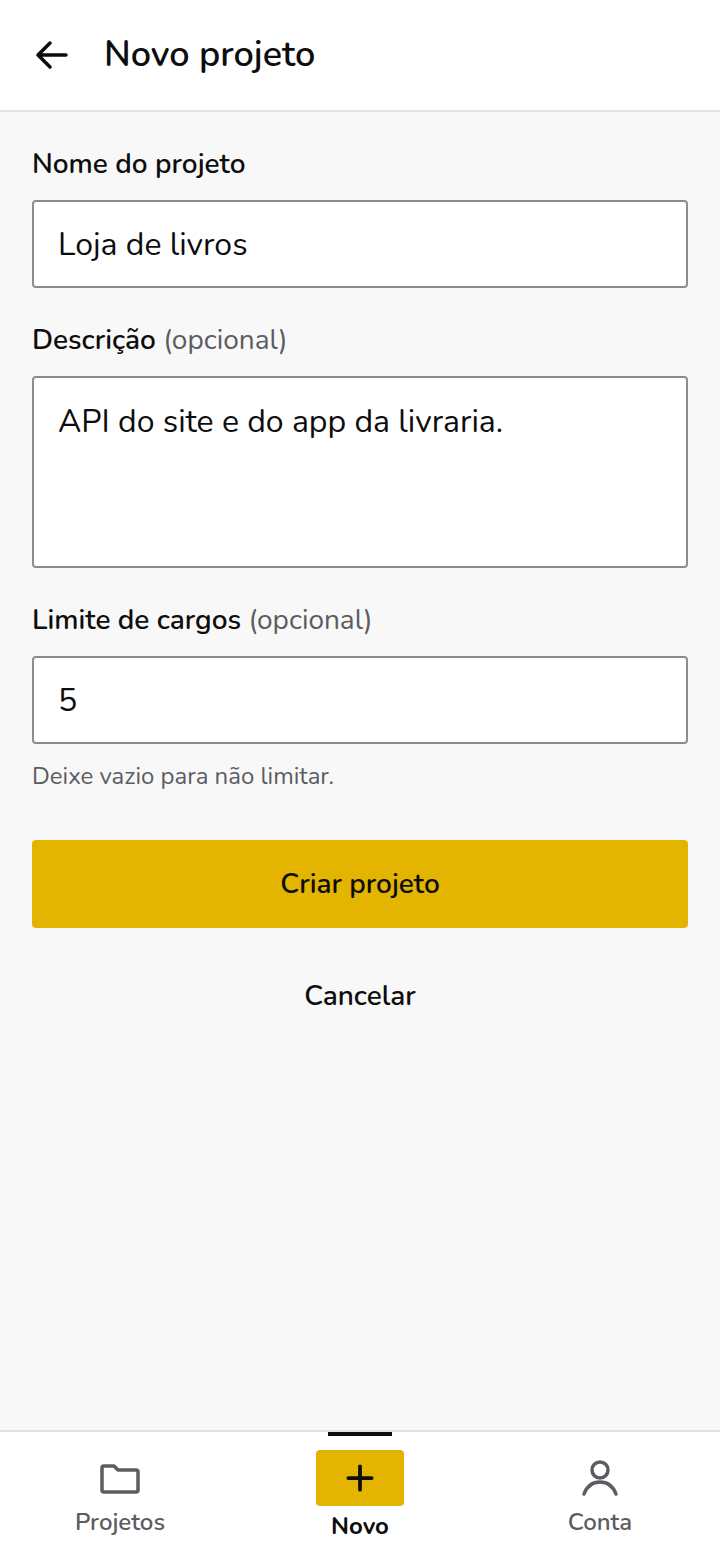
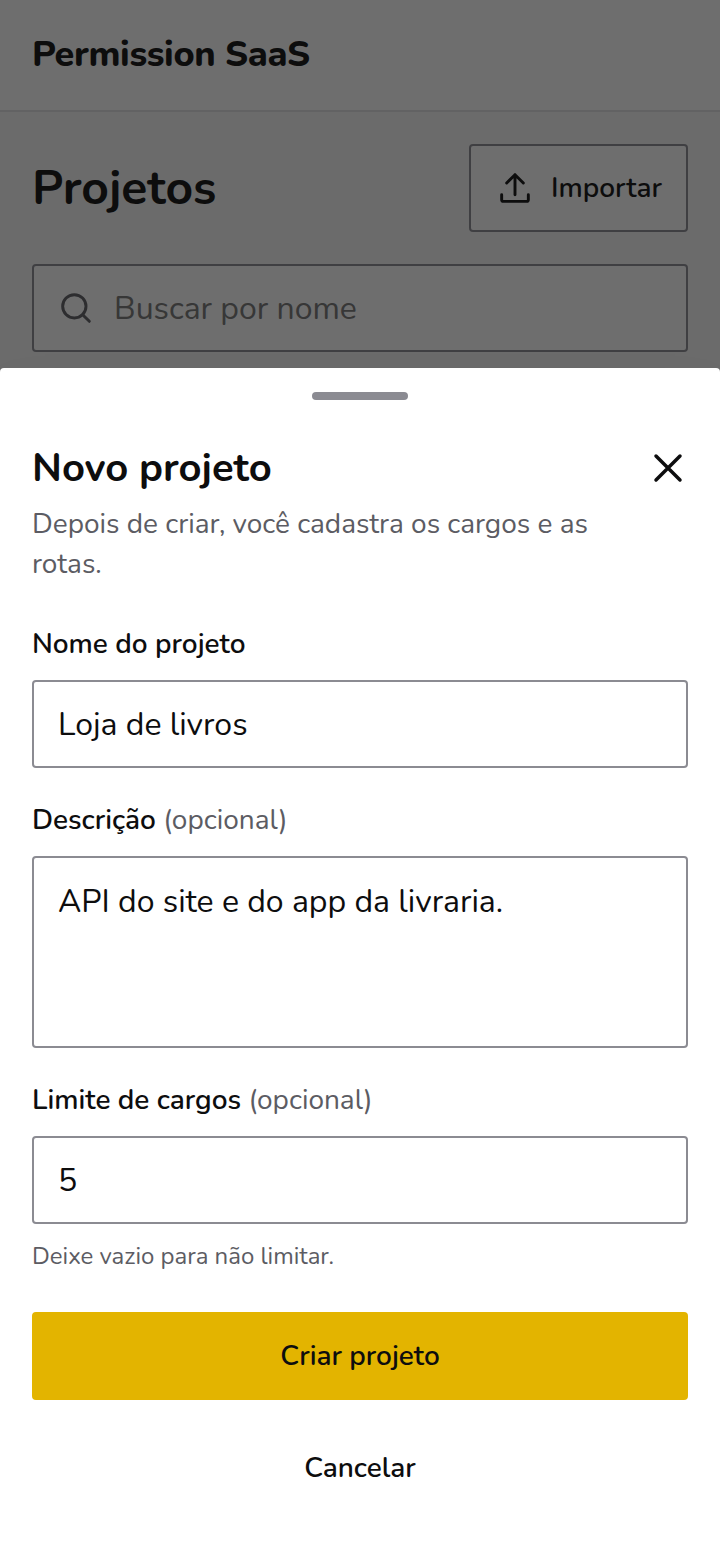
docs: move project create and edit to sheets in the mockup
- Create and edit open in a sheet over the list or detail instead of
  their own page: a Drawer from the bottom on the phone (drag down to
  close) and a Sheet from the right on desktop
- Add the desktop edit sheet screen; refresh the PNG exports and shift
  the desktop delete screens to 34-36
- Record the code adjustment for block 2 (child routes keep
  /projects/new and /projects/:id/edit) and the Vaul dependency in
  ADR-017

diff --git a/docs/desenvolvimento_full_stack_com_react_e_spring_boot/PLAN.md b/docs/desenvolvimento_full_stack_com_react_e_spring_boot/PLAN.md
@@ -58,7 +58,7 @@ O que esta disciplina acrescenta ao sistema:
 | A rubrica cobra | O enunciado (etapas) | Como fica |
 |---|---|---|
 | Exportação de dados protegida por JWT (itens 9–12) | nenhuma etapa fala em exportação | export e import do projeto completo em JSON (bloco 5) |
-| Mockup "detalhado" (item 4) | a Etapa 0 pede um mockup | 30 telas (celular em 360 px e desktop), com estados e navegação clicável, feitas pela IA com a liberação do professor (bloco 0) |
+| Mockup "detalhado" (item 4) | a Etapa 0 pede um mockup | 36 telas (26 no celular, em 360 px, e 10 no desktop), com estados e navegação clicável, feitas pela IA com a liberação do professor (bloco 0) |
 | "Integração contínua" (item 1) | — | GitHub Actions em cada repositório (bloco 1) |
 | "Serviço RESTful fornecido" (item 2) | a Etapa 6 permite uma API própria | a própria API; o relatório explica a escolha |
 | Testes "abrangentes" do update e do delete (item 7) e da segurança (itens 11 e 16) | a Etapa 3 pede testar e validar | unidade, MockMvc e Testcontainers (blocos 2, 3 e 5) |
@@ -139,6 +139,7 @@ bloco 4 para login e cadastro).
 | **O erro do nome só aparece quando o texto digitado deixa de bater com o começo do nome.** "Loja vir" não acusa nada, e "Loja V" acusa. Hoje o erro aparece a cada letra que ainda não completa o nome | 17/11 | `ProjectDetail`: hoje `hasError = confirmProjectName !== "" && !isProjectNameConfirmed`; passa a ser `confirmProjectName !== "" && !project.name.startsWith(confirmProjectName)`. O botão continua dependendo do nome exato (`isProjectNameConfirmed`) |
 | **O cabeçalho atual quebra em 360 px:** o nome do usuário e o "Sair" saem da tela, e a busca não ocupa a largura (print `entrega/prints/04-front-projetos-celular.png`). Resolve com a barra inferior e o cabeçalho fino do mockup | 17/11 | `AppLayout` e a lista de projetos |
 | **Textos na voz da marca:** "Ops!!" sai, "Deletando..." vira "Excluindo...", "Novo Projeto" vira "Novo projeto"... A tabela completa está no branding, em "Voz e tom" | 17/11 | as telas que forem refeitas |
+| **Criar e editar projeto num sheet, e não numa página.** No celular, o sheet sobe de baixo; a partir do `md`, entra pela direita, com 480 px. A lista ou o detalhe continua visível atrás, escurecido. O sheet fecha pelo X, pelo Cancelar, pela tecla Esc ou com um toque fora; no celular, também arrastando para baixo pela alça do topo (pedido em 18/11). As rotas continuam, como rotas filhas: `/projects/new` abre o sheet sobre a lista, e `/projects/:id/edit` abre o sheet sobre o detalhe. Assim, o voltar do navegador fecha o sheet, e o link continua abrindo direto nele. Ao criar, o sheet fecha e abre o detalhe do projeto novo, com o aviso de sucesso; ao salvar, fecha e fica no detalhe. O "Novo" da barra de baixo e do cabeçalho do desktop deixa de levar a uma página e passa a abrir o sheet. A exclusão continua num diálogo, porque confirma uma decisão em vez de preencher um formulário | 18/11 | `router.tsx` (as duas rotas viram filhas), `ProjectListPage` e `ProjectDetailPage` (ganham o `<Outlet />`); o `ProjectFormPage` sai e dá lugar a um componente que escolhe pela largura: o `Drawer` do shadcn/ui (feito sobre o Vaul, que dá o arrastar) abaixo do `md` e o `Sheet` com `side="right"` a partir dele, com o mesmo formulário dentro (bloco 2; ADR-017) |
 
 ---
 
@@ -211,6 +212,8 @@ O JWT, o logout seguro, o export protegido e os testes de segurança **não são
   - [x] as 35 telas em PNG em `entrega/mockup/` (celular em 2x, desktop em 1x)
   - [x] ambiente conferido, com 4 prints em `entrega/prints/`: a API respondendo (`/actuator/health`), a lista de projetos no front, a mesma chamada pelo proxy do Vite (`/api/projects`) e o front atual em 360 px. Os prints usaram um PostgreSQL temporário com dados de demonstração, apagado depois; o banco local do Jairo não foi tocado
   - [x] canvas aberto para quem tiver o link (17/11); é o link do PDF e o que vai para o professor: <https://claude.ai/artifact/5CUHCznKRK51vLerPZfoVq#page-01487ea111e7>
+- [x] Criar e editar projeto em sheet no mockup (18/11): o sheet de editar no desktop é tela nova (agora 26 no
+      celular e 10 no desktop), e os PNGs dessas telas foram refeitos (36 em `entrega/mockup/`)
 - [ ] **Bloco 1:** diagnóstico; Dockerfile do front; portas de desenvolvimento separadas; CI; auditoria
       de código (IA) e escolha dos achados
 - [ ] **Bloco 2:** shadcn/ui e Sonner; Axios; React Hook Form + Zod; cargos e rotas no detalhe; validações; testes do CRUD
@@ -241,6 +244,7 @@ Ferramenta: **Claude Code**, da Anthropic.
 | 17/11/2026 | Bloco 0 (mockup) | Com a liberação do professor para usar IA no mockup, e a meu pedido, desenhou o mockup num canvas de design do Claude: 30 telas, 24 no celular (360 px) e 6 no desktop (1440 px), com os estados de carregando, vazio, erro e sucesso, e links entre as telas para navegar. Partiu das decisões de tela que tomei no jogo de perguntas e do branding. Propôs como a matriz de concessões fica no celular (um cargo por vez). A revisão das telas é minha |
 | 17/11/2026 | Bloco 0 (fechamento) | A meu pedido, gerou as 35 telas do mockup em PNG num Chrome sem janela e tirou os 4 prints do ambiente com um script que sobe o front, faz o login de demonstração e captura as telas. Para os prints, rodou a API contra um PostgreSQL temporário com dados de demonstração e apagou tudo depois. Apontou que o cabeçalho do front atual quebra em 360 px; o ajuste ficou para o bloco 2 |
 | 17/11/2026 | ADR-017 | A meu pedido, avaliou se valia deixar as bibliotecas do front prontas antes dos blocos e recomendou registrar a decisão agora e instalar cada uma no bloco em que é usada (o Zustand só no bloco 4, para não migrar duas vezes a sessão simulada); escreveu o ADR-017. A escolha das bibliotecas (Sonner, React Hook Form, Zod e o Zustand no lugar do Redux) foi minha |
+| 18/11/2026 | Mockup (sheets) | A meu pedido, trocou as telas de criar e editar projeto por sheets (de baixo no celular e pela direita no desktop), desenhou o sheet de editar no desktop, que não existia, e refez os PNGs dessas telas; depois, a meu pedido, pôs no celular a alça para fechar o sheet arrastando para baixo. Corrigiu dois links do desktop que levavam à tela errada (o Editar do detalhe abria o formulário de criar, e os cards da lista abriam o detalhe do celular) e registrou o ajuste no código. A ideia de usar sheets foi minha |
 
 ---
 

diff --git a/docs/ARCHITECTURE.md b/docs/ARCHITECTURE.md
@@ -807,6 +807,7 @@ relatório listou a troca dessas peças como trabalho futuro. A disciplina Full 
 |---|---|---|
 | componentes escritos à mão com Tailwind | **shadcn/ui**, com as cores e fontes do `docs/branding/tokens.css` e o raio de 2 px | bloco 2 |
 | `NotificationContext` + `Toast` próprios | **Sonner**, pelo componente do shadcn/ui | bloco 2 |
+| formulários de criar e editar em páginas próprias (`ProjectFormPage`) | **Sheet** do shadcn/ui no desktop e **Drawer** (feito sobre o **Vaul**) no celular, que fecha arrastando para baixo; decidido em 18/11, depois do mockup | bloco 2 |
 | `httpClient` sobre o `fetch` | **Axios**, com interceptors (o de renovar o token entra no bloco 4) | bloco 2 |
 | `useForm` próprio e validação à mão (`validateProject`, `validateLogin`) | **React Hook Form + Zod**: o schema do Zod valida o formulário e também gera o tipo do TypeScript | bloco 2 (login e cadastro no bloco 4) |
 | Redux Toolkit (`authSlice`, `store.ts`) | **Zustand** | bloco 4, junto com a sessão do JWT |
